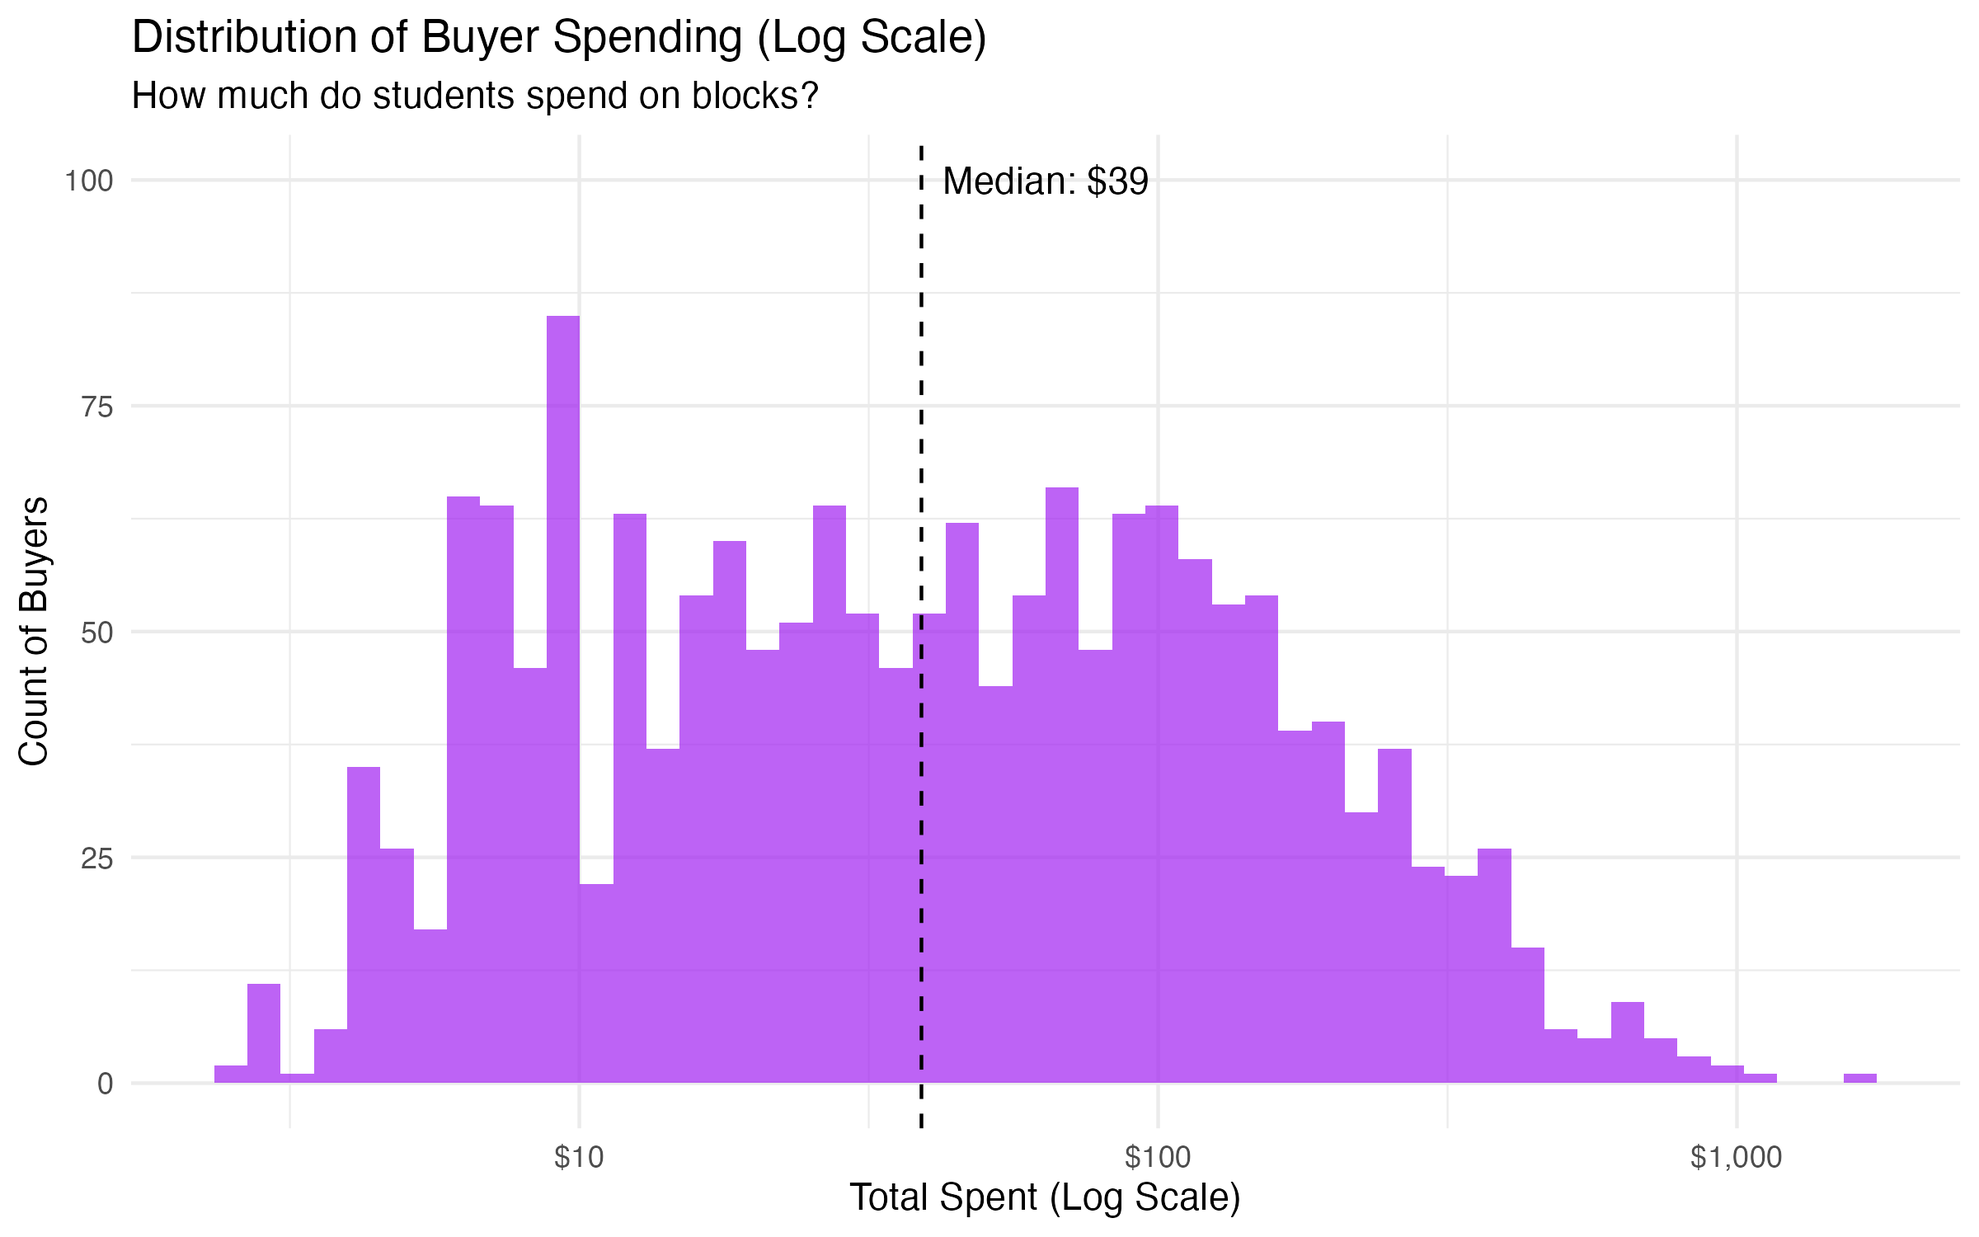
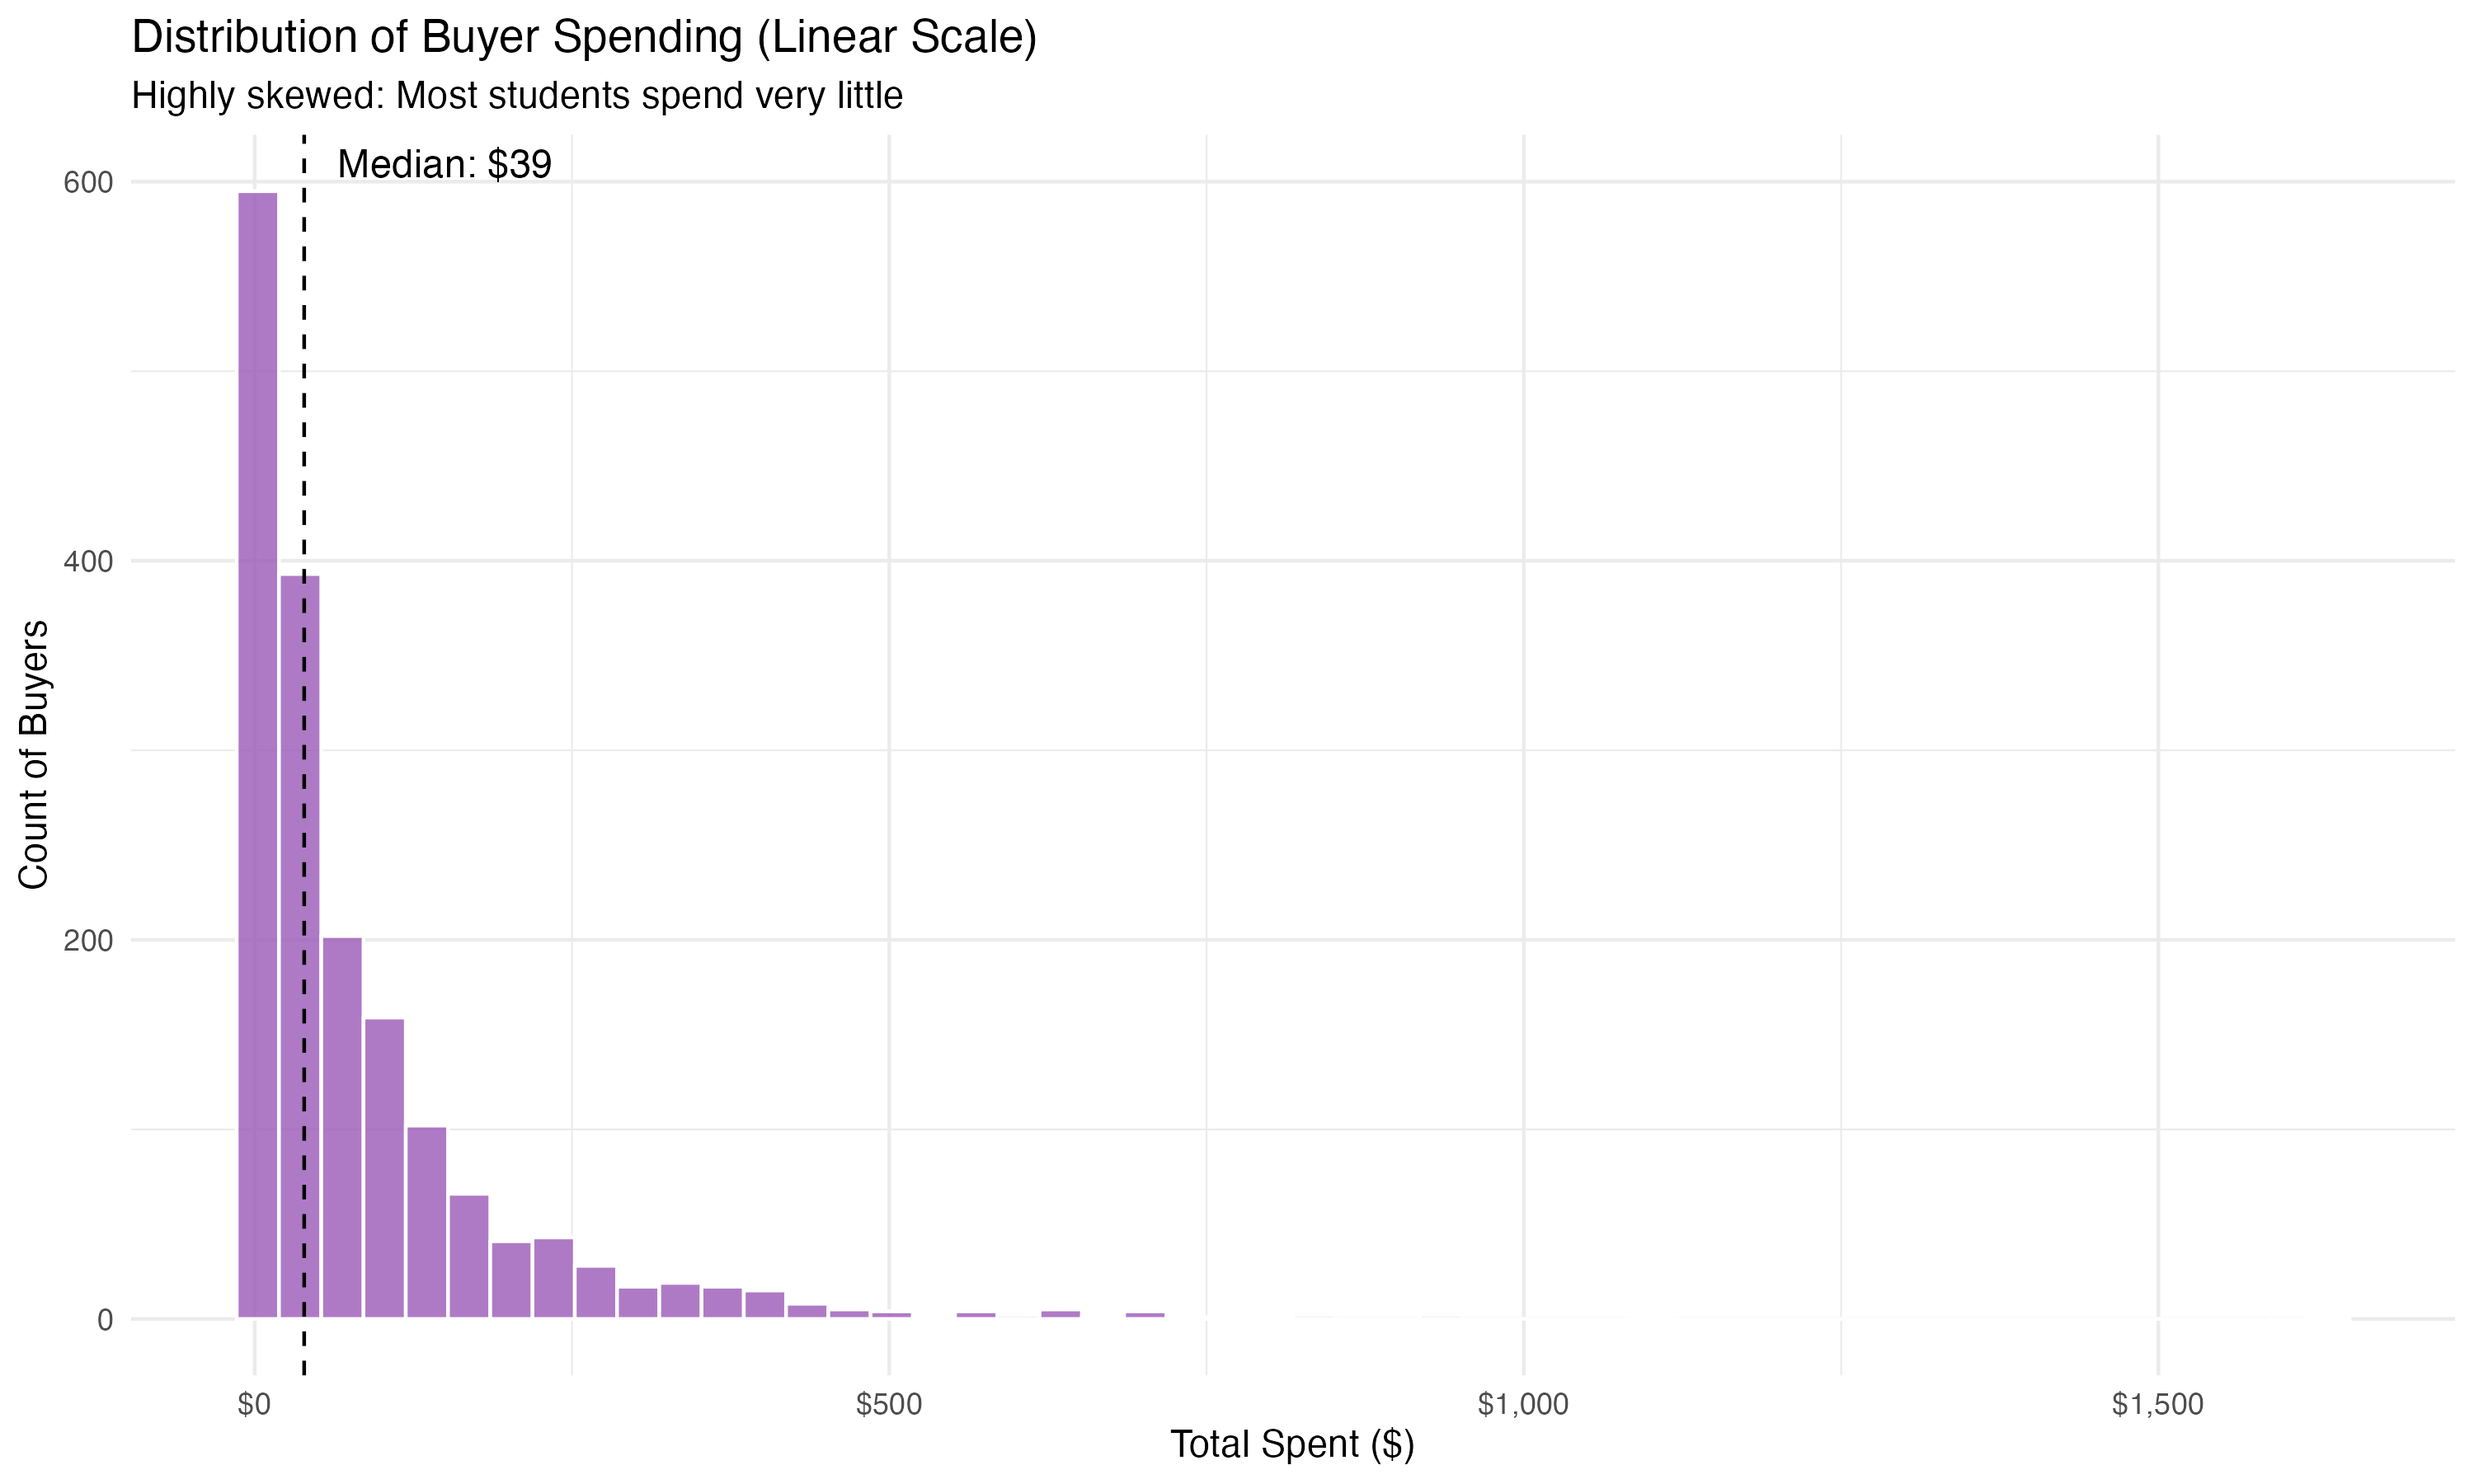
Update README with both linear and log scale buyer spending charts

diff --git a/README.md b/README.md
@@ -94,6 +94,28 @@ Breakdown of when the top 20 buyers purchase their blocks.
 - **Top 10 sellers** account for **8.6%** of total earnings
 > The market is relatively decentralized — no single participant dominates.
 
+#### Buyer Spending Distribution
+
+| Percentile | Amount Spent |
+|------------|-------------:|
+| 25% | $13.00 |
+| 50% (Median) | $39.00 |
+| 75% | $107.50 |
+| 90% | $228.07 |
+| 95% | $325.72 |
+| 99% | $618.55 |
+| Max | $1,633.95 |
+
+*Note: The spending distribution is highly right-skewed (power law), meaning a small number of "power buyers" spend significantly more than the average student. A log scale is typically used to visualize this type of data, but a linear scale is shown below for simplicity.*
+
+### Linear Scale
+Most buyers spend <$100, with a long tail of high spenders.
+![Buyer Spend Distribution](buyer_spend_distribution.png)
+
+### Log Scale
+Applying a log scale reveals the underlying structure of spending habits.
+![Buyer Spend Distribution Log](buyer_spend_distribution_log.png)
+
 ### Meal Time Breakdown
 
 | Meal | Transactions | % of Market | Avg Price |
@@ -103,6 +125,10 @@ Breakdown of when the top 20 buyers purchase their blocks.
 | **Breakfast** (6a–10:30a) | 286 | 1.3% | $5.82 |
 
 > **Insight**: Lunch dominates the market, but dinner commands nearly half of all transactions. Breakfast is negligible.
+
+### Meal Consumption Summary
+Total blocks consumed by meal time.
+![Meal Consumption](meal_consumption_summary.png)
 
 ### Time-Based Patterns
 
